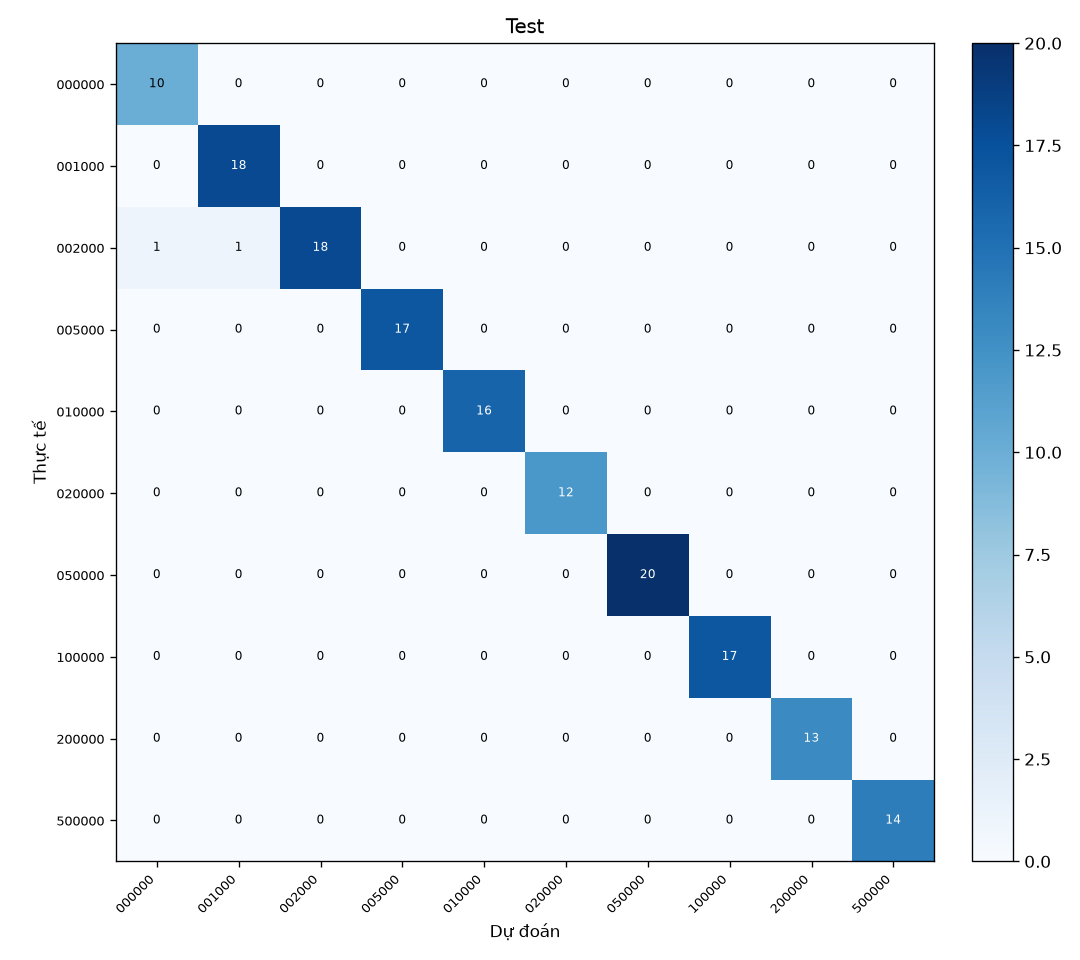
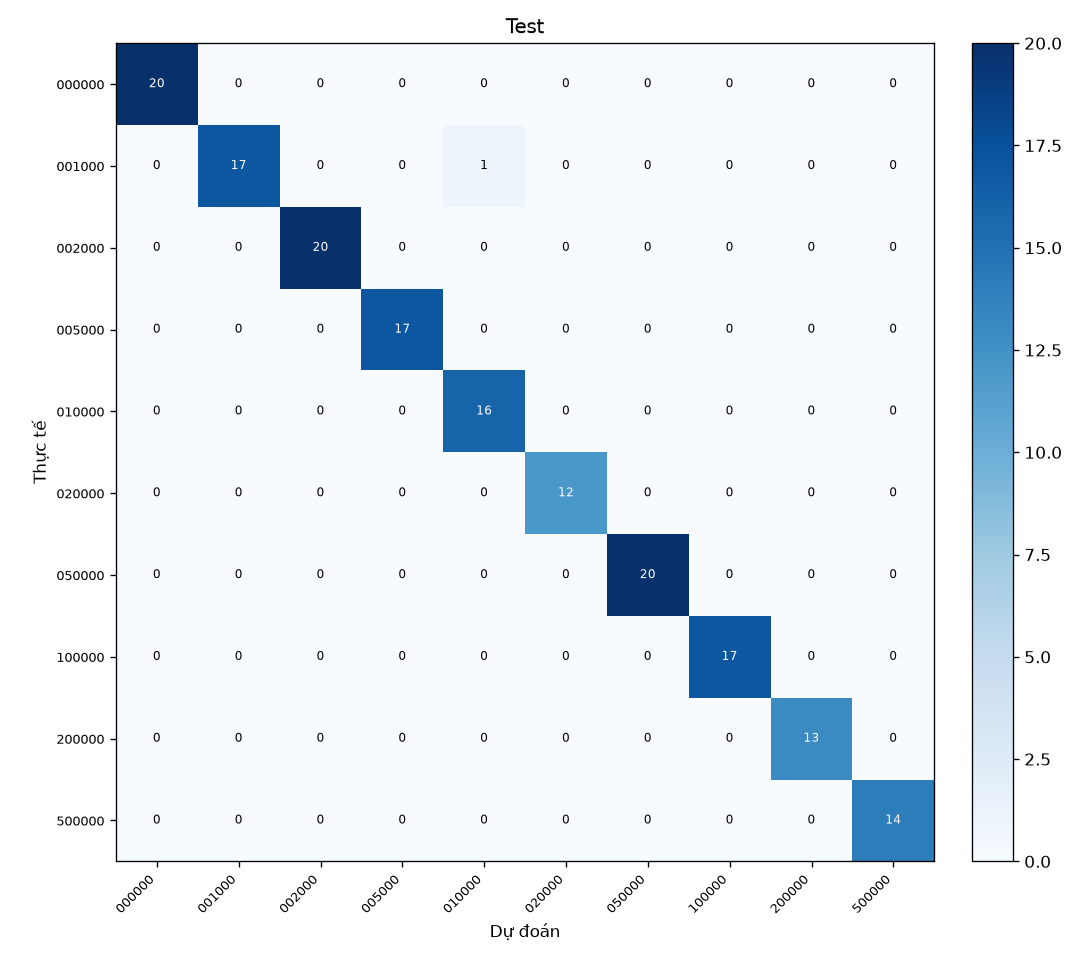
refactor: enhance currency prediction logic and update classification report

Changed region(s): [[0.0917, 0.0312, 0.1833, 0.1562], [0.2444, 0.2188, 0.3361, 0.3125]]

diff --git a/inference.py b/inference.py
@@ -11,12 +11,12 @@ from utils import get_device
 
 @dataclass
 class Prediction:
-    cls: str                       # mã lớp gốc, vd "050000"
-    label: str                     # nhãn hiển thị sau khi áp ngưỡng
+    cls: str                  
+    label: str                
     confidence: float
     is_money: bool
     is_confident: bool
-    topk: list                     # [(label, prob), ...] theo xác suất giảm dần
+    topk: list                
 
 
 def load_checkpoint(device: torch.device, model_path=None):
@@ -34,11 +34,16 @@ class CurrencyClassifier:
         self.model, self.class_dirs = load_checkpoint(self.device, model_path)
 
     @torch.no_grad()
-    def predict(self, image: Image.Image, topk: int = 3) -> Prediction:
+    def predict_probs(self, image: Image.Image) -> torch.Tensor:
         x = infer_transform(image).unsqueeze(0).to(self.device)
-        probs = torch.softmax(self.model(x), dim=1)[0]
+        return torch.softmax(self.model(x), dim=1)[0]
+
+    def resolve(self, probs: torch.Tensor, topk: int = 3) -> Prediction:
         conf, idx = probs.max(0)
         return self._resolve(self.class_dirs[idx.item()], conf.item(), probs, topk)
+
+    def predict(self, image: Image.Image, topk: int = 3) -> Prediction:
+        return self.resolve(self.predict_probs(image), topk)
 
     def _resolve(self, cls, conf, probs, topk) -> Prediction:
         is_money = cls != config.NO_MONEY_CLASS

diff --git a/app.py b/app.py
@@ -1,6 +1,7 @@
 import os
 import sys
 import time
+from collections import deque
 from datetime import datetime
 
 import cv2
@@ -21,6 +22,7 @@ AMBER = "#EF9F27"
 NEUTRAL = "#B4B8BF"
 PLACEHOLDER = "—"
 FRAME_INTERVAL_MS = 15
+SMOOTH_WINDOW = 8                # số frame gần nhất để trung bình xác suất
 
 
 def _hex_to_rgb(hex_color: str):
@@ -55,6 +57,7 @@ class CurrencyApp(QWidget):
         self.prev_t = time.time()
         self.last_frame = None       # BGR, dùng cho _snapshot
         self.last_text = ""
+        self.prob_history = deque(maxlen=SMOOTH_WINDOW)   # xác suất các frame gần nhất
 
         self._build_ui()
 
@@ -222,6 +225,7 @@ class CurrencyApp(QWidget):
             self.video.setText(f"Không mở được Camera {cam_id}")
             self.cap = None
             return
+        self.prob_history.clear()
         self.combo.setEnabled(False)
         self.btn_snap.setEnabled(True)
         self._style_button(start=False)
@@ -259,7 +263,10 @@ class CurrencyApp(QWidget):
                              getattr(config, "ROI_ASPECT", 1.0))
             region = rgb[roi[1]:roi[3], roi[0]:roi[2]]
 
-        pred = self.clf.predict(Image.fromarray(region), topk=4)
+        probs = self.clf.predict_probs(Image.fromarray(region))
+        self.prob_history.append(probs)
+        avg_probs = sum(self.prob_history) / len(self.prob_history)
+        pred = self.clf.resolve(avg_probs, topk=4)
         accent = _accent_for(pred)
         conf = pred.confidence
         self.last_text = f"{pred.label} ({conf*100:.0f}%)"